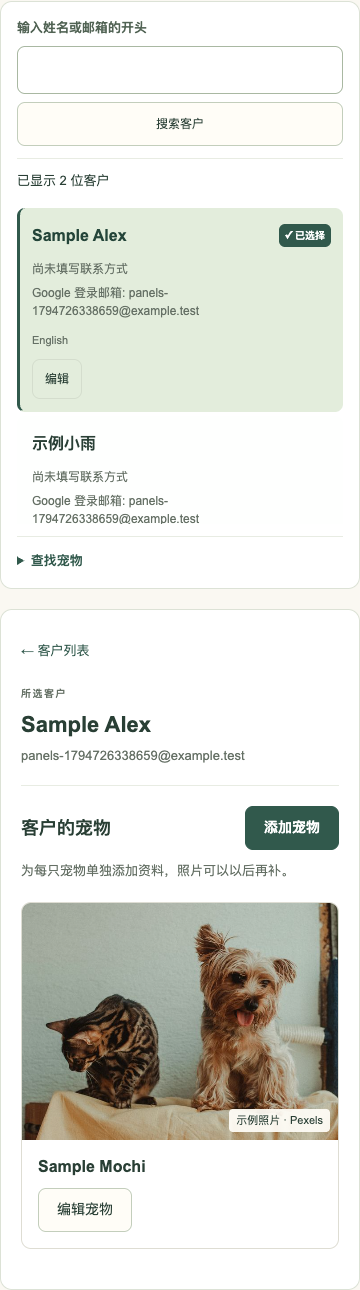
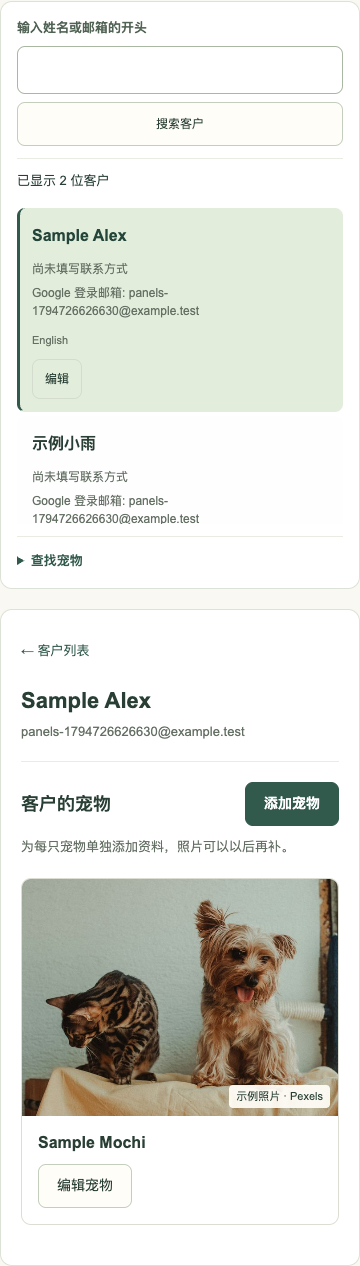
Remove visible selected labels

diff --git a/apps/web/src/customers.tsx b/apps/web/src/customers.tsx
@@ -137,13 +137,13 @@ export default function Customers({ refreshKey = 0 }: { refreshKey?: number }) {
       <div className="portal-actions"><button className="button" disabled={saving || error === 'conflict' || error === 'forbidden'} type="submit">{saving ? t.saving : uncertain ? t.retry : t.save}</button><button className="language" type="button" disabled={saving || uncertain} onClick={() => { if (confirmDiscardChanges(i18n.language, form.current)) { setEditor(null); setError(null); } }}>{t.cancel}</button></div>
     </form>}
     <div className="customer-heading directory-toolbar"><p>{loaded && !items.length && !loading ? activeSearch.trim() ? t.noMatches : t.empty : loaded ? (chinese ? `已显示 ${items.length} 位客户` : `${items.length} customers shown`) : ''}</p>{(error === 'error' || error === 'conflict') && !uncertain && <button className="language" disabled={loading || saving} onClick={() => void load()}>{t.reload}</button>}</div>
-    <ul className="customer-list">{items.map(customer => <li key={customer.id} className={petCustomer?.id === customer.id ? 'selected-customer' : undefined}><div><h3><button className="customer-select" aria-label={customer.name} aria-pressed={petCustomer?.id === customer.id} onClick={() => choosePets(customer)}><span className="customer-name">{customer.name}</span>{petCustomer?.id === customer.id && <span className="customer-selected-label" aria-hidden="true">✓ {chinese ? '已选择' : 'Selected'}</span>}</button></h3><p>{customer.email || customer.phone ? [customer.email, customer.phone].filter(Boolean).join(' · ') : t.noContact}</p>{customer.loginEmail && <p>{t.loginEmail}: {customer.loginEmail}</p>}<span className="customer-language" lang={customer.language === 'zh' ? 'zh-Hans' : 'en'}>{customer.language === 'zh' ? '简体中文' : 'English'}</span></div><div className="customer-row-actions"><button className="language" aria-label={`${t.edit}: ${customer.name}`} disabled={saving || uncertain} onClick={() => open(customer)}>{chinese ? '编辑' : 'Edit'}</button>{!customer.loginEmail&&<button className="language" aria-label={`${chinese ? '关联 Google 账号' : 'Link Google account'}: ${customer.name}`} onClick={()=>setLinkCustomer(customer.id)}>{chinese?'关联 Google':'Link Google'}</button>}</div></li>)}</ul>
+    <ul className="customer-list">{items.map(customer => <li key={customer.id} className={petCustomer?.id === customer.id ? 'selected-customer' : undefined}><div><h3><button className="customer-select" aria-label={customer.name} aria-pressed={petCustomer?.id === customer.id} onClick={() => choosePets(customer)}><span className="customer-name">{customer.name}</span></button></h3><p>{customer.email || customer.phone ? [customer.email, customer.phone].filter(Boolean).join(' · ') : t.noContact}</p>{customer.loginEmail && <p>{t.loginEmail}: {customer.loginEmail}</p>}<span className="customer-language" lang={customer.language === 'zh' ? 'zh-Hans' : 'en'}>{customer.language === 'zh' ? '简体中文' : 'English'}</span></div><div className="customer-row-actions"><button className="language" aria-label={`${t.edit}: ${customer.name}`} disabled={saving || uncertain} onClick={() => open(customer)}>{chinese ? '编辑' : 'Edit'}</button>{!customer.loginEmail&&<button className="language" aria-label={`${chinese ? '关联 Google 账号' : 'Link Google account'}: ${customer.name}`} onClick={()=>setLinkCustomer(customer.id)}>{chinese?'关联 Google':'Link Google'}</button>}</div></li>)}</ul>
     {linkCustomer&&<AdminAccountLink key={linkCustomer} customerId={linkCustomer} onLinked={()=>void load()}/>}
     <details className="pet-search-tools"><summary>{chinese ? '查找宠物' : 'Find a pet'}</summary><PetSearch onChoose={choosePets}/></details>
     {loading && <p role="status">{t.loading}</p>}
     {cursor && <button className="language" disabled={loading || saving} onClick={() => void load(cursor)}>{t.more}</button>}
     </div>
-    <div ref={petsPanel} tabIndex={-1} className="admin-pets" role="region" aria-label={chinese ? '所选客户的宠物' : 'Selected customer pets'}>{petCustomer ? <><div className="selected-customer-heading"><button className="back-to-customers" onClick={() => { directoryPanel.current?.focus({ preventScroll: true }); directoryPanel.current?.scrollIntoView({ block: 'start', behavior: 'instant' }); }}>{chinese ? '← 客户列表' : '← Customers'}</button><p className="eyebrow">{chinese ? '所选客户' : 'SELECTED CUSTOMER'}</p><h3>{petCustomer.name}</h3>{petCustomer.loginEmail && <p>{petCustomer.loginEmail}</p>}</div><Pets key={petCustomer.id} customerId={petCustomer.id} title={chinese ? '客户的宠物' : 'Customer’s pets'}/></> : <div className="pet-selection-empty"><h3>{chinese ? '客户的宠物' : 'Customer’s pets'}</h3><p>{chinese ? '从客户列表中选择一位客户，查看和管理其宠物。' : 'Select a customer from the list to view and manage their pets.'}</p></div>}</div>
+    <div ref={petsPanel} tabIndex={-1} className="admin-pets" role="region" aria-label={chinese ? '所选客户的宠物' : 'Selected customer pets'}>{petCustomer ? <><div className="selected-customer-heading"><button className="back-to-customers" onClick={() => { directoryPanel.current?.focus({ preventScroll: true }); directoryPanel.current?.scrollIntoView({ block: 'start', behavior: 'instant' }); }}>{chinese ? '← 客户列表' : '← Customers'}</button><h3>{petCustomer.name}</h3>{petCustomer.loginEmail && <p>{petCustomer.loginEmail}</p>}</div><Pets key={petCustomer.id} customerId={petCustomer.id} title={chinese ? '客户的宠物' : 'Customer’s pets'}/></> : <div className="pet-selection-empty"><h3>{chinese ? '客户的宠物' : 'Customer’s pets'}</h3><p>{chinese ? '从客户列表中选择一位客户，查看和管理其宠物。' : 'Select a customer from the list to view and manage their pets.'}</p></div>}</div>
     </div>
   </section>;
 }

diff --git a/tests/browser/customer-panels.spec.ts b/tests/browser/customer-panels.spec.ts
@@ -39,7 +39,8 @@ test('customer list selects the correct pets in bilingual responsive panels and 
   await expect(right.getByRole('button',{name:'Try again',exact:true})).toHaveCount(0);
   await expect(right.getByRole('heading',{name:'Sample Mochi',exact:true})).toBeVisible();
   await expect(page.getByRole('button',{name:/Reload|Refresh session/})).toHaveCount(0);
-  await expect(alexRow.getByText('✓ Selected',{exact:true})).toBeVisible();
+  await expect(alexRow).toHaveClass('selected-customer');
+  await expect(page.getByText(/^(✓ Selected|SELECTED CUSTOMER)$/)).toHaveCount(0);
   await otherRow.hover();
   await expect(left.getByRole('button',{name:'Sample Alex',exact:true})).toHaveAttribute('aria-pressed','true');
   await expect(right.getByRole('heading',{name:'Sample Mochi',exact:true})).toBeVisible();
@@ -66,7 +67,8 @@ test('customer list selects the correct pets in bilingual responsive panels and 
   for(const language of ['en','zh']){
     await page.getByRole('combobox',{name:'Language / 语言',exact:true}).selectOption(language);
     await expect(page.locator('.customer-directory-panel').getByRole('button',{name:/Manage pets|管理宠物/})).toHaveCount(0);
-    await expect(page.locator('.selected-customer').getByText(language==='zh'?'✓ 已选择':'✓ Selected',{exact:true})).toBeVisible();
+    await expect(page.locator('.selected-customer')).toHaveCount(1);
+    await expect(page.getByText(/^(✓ Selected|SELECTED CUSTOMER|✓ 已选择|所选客户)$/)).toHaveCount(0);
     for(const width of [320,400,1280]){
       await page.setViewportSize({width,height:900});
       expect(await page.evaluate(()=>document.documentElement.scrollWidth<=innerWidth)).toBe(true);

diff --git a/apps/web/src/style.css b/apps/web/src/style.css
@@ -81,7 +81,6 @@ html[lang=zh-Hans] h1,html[lang=zh-Hans] h2{letter-spacing:0;line-height:1.25}
 .customer-select::after{content:"";position:absolute;inset:0;border-radius:8px}
 .customer-select{display:flex;align-items:flex-start;justify-content:space-between;gap:12px;min-height:44px}
 .customer-select .customer-name{font-size:1.25rem}
-.customer-select .customer-selected-label{flex:none;font-size:12px;line-height:1.5;padding:4px 8px;border-radius:6px;background:#31594c;color:#fff}
 .customer-row-actions{position:relative;z-index:1}
 @media(hover:hover){.customer-directory-panel>.customer-list>li:hover{background:#f0f4eb}.customer-directory-panel>.customer-list>li.selected-customer:hover{background:#dce8d5}}
 .customer-directory-panel>.customer-list>li.selected-customer{background:#e4eddd;border-left-color:#31594c}

diff --git a/apps/web/src/workspace.css b/apps/web/src/workspace.css
@@ -31,7 +31,6 @@
 .portal-admin .customer-directory-panel>.customer-list>li{padding:12px;gap:8px;border-bottom-color:transparent;margin-bottom:4px}
 .portal-admin .customer-select{min-height:36px;gap:8px}
 .portal-admin .customer-select .customer-name{font-size:16px;line-height:1.5}
-.portal-admin .customer-select .customer-selected-label{font-size:10px;padding:4px 6px}
 .portal-admin .customer-list p{font-size:12px;line-height:1.5;margin:4px 0 6px}
 .portal-admin .customer-language{display:inline-block;font-size:11px;color:#657065}
 .portal-admin .customer-row-actions{gap:8px}

diff --git a/docs/business-owner-guide.md b/docs/business-owner-guide.md
@@ -81,9 +81,9 @@ Use the same GitHub project, `Fifiloveniuniu/niu-niu-family-paws`, and ask Codex
 
 ## Choosing a customer's pets
 
-In **Customer management**, the customer list appears on the left and the selected customer's pets appear on the right. Click a customer’s row to show their pets on the right. Hovering highlights the row; the selected customer has a green background, a left border and a Selected badge. Edit customer and account linking remain separate actions. On phones, selecting a customer brings their pets into view below the list. Use **← Customers** to return to the list. Search customers or pet names in the left panel; pet search results can also select a customer. Existing private photos remain visible only to the owner and authorized administrators. Switching customers asks before discarding unsaved pet edits.
+In **Customer management**, the customer list appears on the left and the selected customer's pets appear on the right. Click a customer’s row to show their pets on the right. Hovering highlights the row; the selected customer has a green background and a left border. Edit customer and account linking remain separate actions. On phones, selecting a customer brings their pets into view below the list. Use **← Customers** to return to the list. Search customers or pet names in the left panel; pet search results can also select a customer. Existing private photos remain visible only to the owner and authorized administrators. Switching customers asks before discarding unsaved pet edits.
 
-在“客户管理”中，左侧显示客户列表，右侧显示所选客户的宠物。点击客户行即可在右侧查看其宠物。鼠标悬停时会高亮；所选客户显示绿色背景、左侧边框和“已选择”标记。编辑客户和关联账号仍为独立操作。手机上，选择客户后会自动显示下方的宠物区域，点击“← 客户列表”可返回列表。左侧可按客户或宠物名字搜索，宠物搜索结果也可用于选择客户。已保存的照片仍仅供主人和获授权的管理员查看。切换客户前，如有未保存的宠物修改，系统会先询问。
+在“客户管理”中，左侧显示客户列表，右侧显示所选客户的宠物。点击客户行即可在右侧查看其宠物。鼠标悬停时会高亮；所选客户显示绿色背景和左侧边框。编辑客户和关联账号仍为独立操作。手机上，选择客户后会自动显示下方的宠物区域，点击“← 客户列表”可返回列表。左侧可按客户或宠物名字搜索，宠物搜索结果也可用于选择客户。已保存的照片仍仅供主人和获授权的管理员查看。切换客户前，如有未保存的宠物修改，系统会先询问。
 
 Routine reload buttons are removed. Customers and pets load when you open them, and lists update after saves. If loading fails, use **Try again** beside the error. Account access is rechecked when you return to the tab. Unsaved edits remain protected.
 

diff --git a/docs/session-handoff.md b/docs/session-handoff.md
@@ -1,5 +1,13 @@
 # Session handoff — 2026-10-22
 
+## Pexels pet-card sample — delivered 2026-11-14
+
+Owner requested a real photograph from Pexels or Pinterest. Used Pexels photo 16440218 by Helena Jankovičová Kováčová after checking its license; credits/source are in `docs/photo-credits.md`. PR #33 merged as GitHub-Verified `91640fc8c47406fed7b3c02e2053a70b30031cbd` (implementation `6742156` also Verified), CI `43688445146` passed. The 63 KB local image is served through Hosting for pets without private uploads, with a bilingual Sample photo · Pexels credit. Existing uploaded photos take priority; private-photo errors still expose the original error/retry, not a misleading stock image. No business records/photos were uploaded or modified.
+
+Rebuilt merged main and deployed Firebase Hosting. Live HTML and photo bytes match local dist/source; anonymous customer API remains 401. Signed-in native Chrome live tab showed Doudou with the stock photo and Pexels credit. A separate original tab had an open pet editor; preserved it and used a new tab for live verification. Local screenshot review and production build passed; nine full-run browser checks and both final photo/panel checks passed (mobile assertion now checks the visible stock image rather than the heading below the taller photo). Asset dimensions bounded to the card. No API/IAM/database changes.
+
+Latest steering: remove visible Selected labels while preserving active highlighting; give each pet its own image and asked about storage. Existing private pet-photo upload already uses Google Cloud Storage bucket `niu-niu-family-paws-pet-photos`, linked to each stable pet record. Asked whether to save different Pexels samples or use photos of actual pets; awaiting owner answer. Do not overwrite pet photos or imply stock imagery depicts an actual pet without resolving this choice. Selection-label change is on `fix/remove-selection-labels` until its PR/deployment completes. Preserve all real records and the separate pending environment PR #24.
+
 ## Routine reload controls removed — delivered 2026-11-14
 
 Owner requested a simpler UI without reload buttons. PR #31 merged as GitHub-Verified `d793a28648c87f4908dec068e195534afe2dabc6` (implementation `26e503c` also Verified); CI run `43686841093` passed. Removed routine customer/pet/profile reload and account Refresh session controls. Initial reads, post-save list updates and access checks on tab return remain automatic. Recoverable loading/conflict errors expose Try again only when appropriate; uncertain saves retain their existing save-retry path and draft protection. Denied access retains contextual Try again. Bilingual error guidance/owner guide and synthetic screenshots updated. No new polling or data writes.
